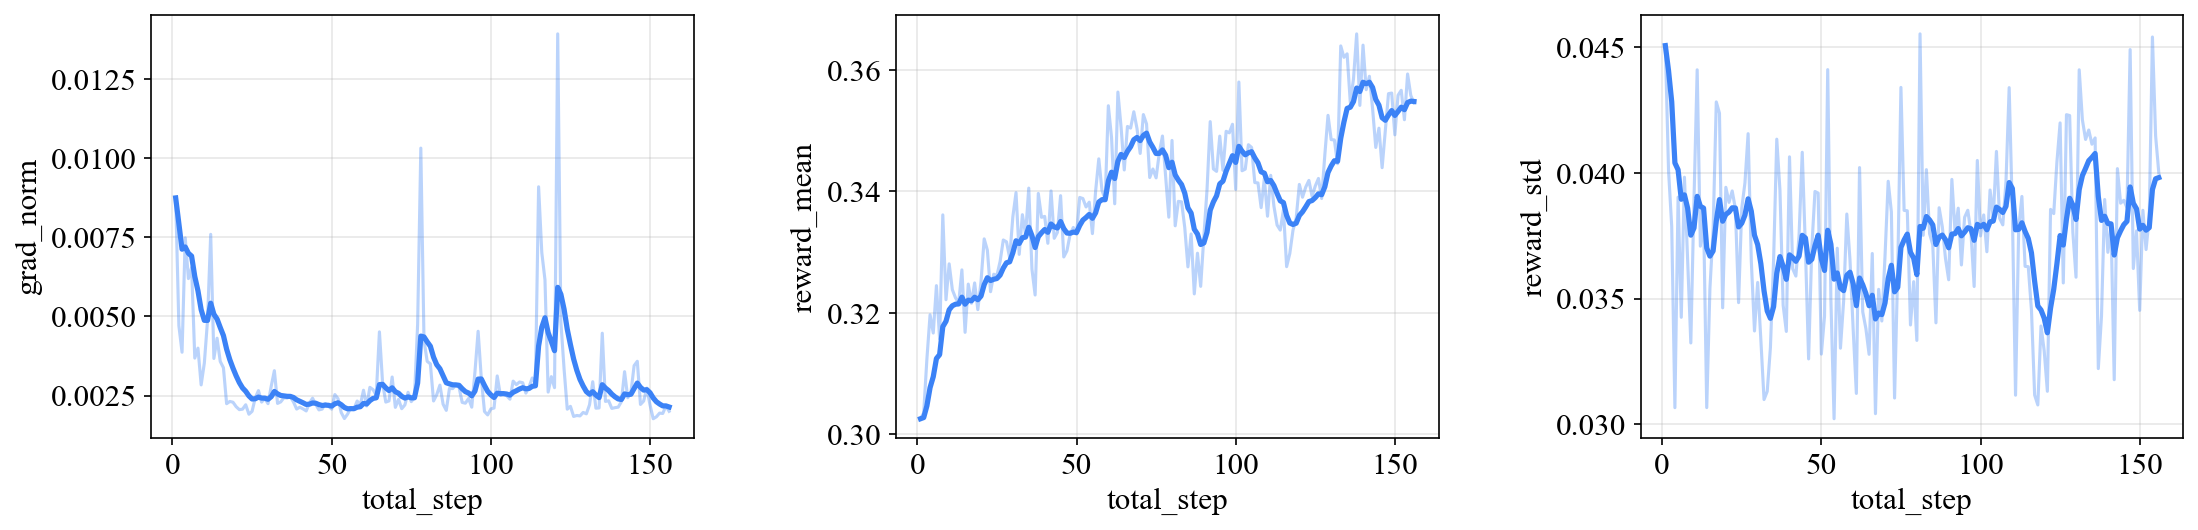
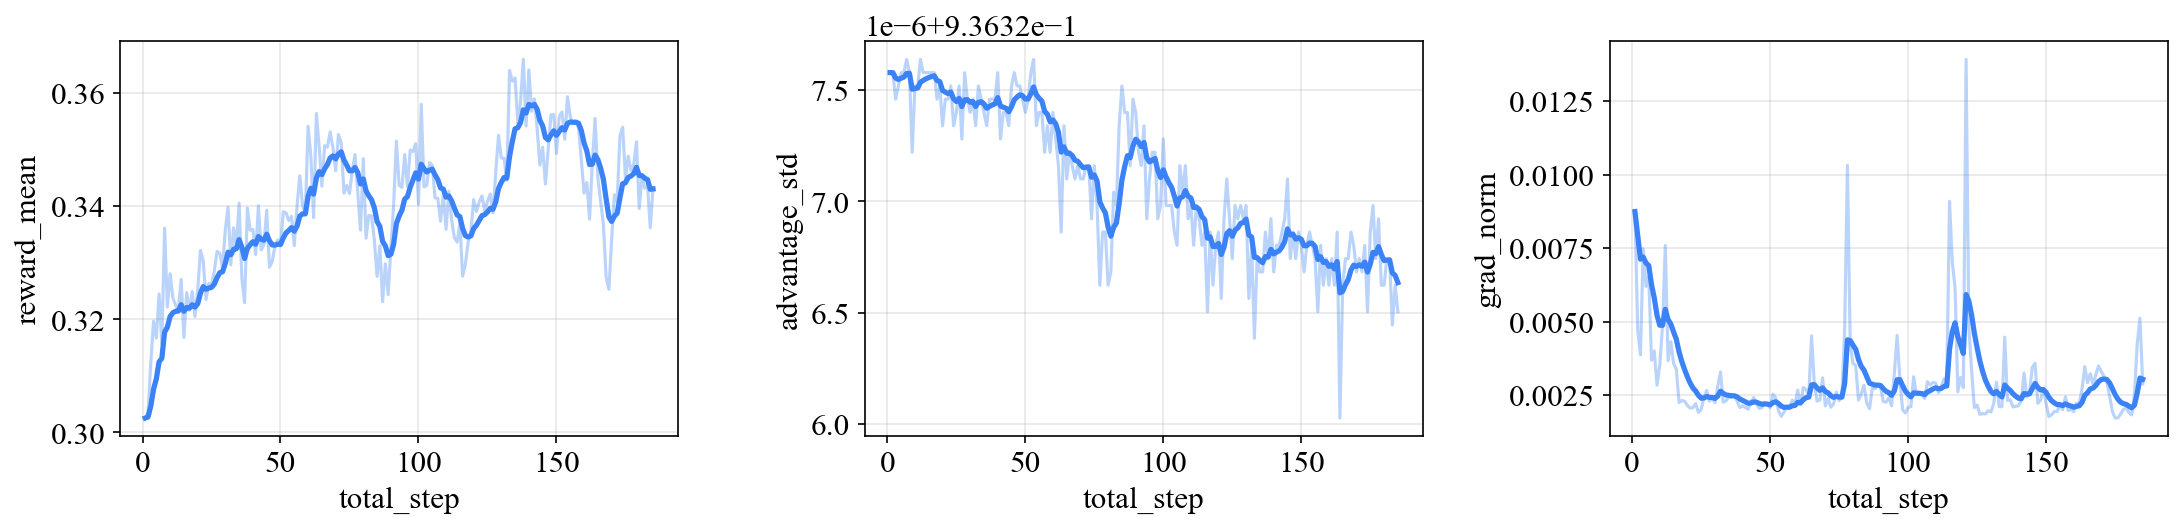
polish code of reward models

diff --git a/src/nexus_align/reward_models/reward_model_aesthetic_predictor_v2.py b/src/nexus_align/reward_models/reward_model_aesthetic_predictor_v2.py
@@ -12,7 +12,7 @@ class AestheticPredictorV2(BaseRewardModel):
  
     References:
         - Official repo: https://github.com/christophschuhmann/improved-aesthetic-predictor.
-        - Used repo: https://github.com/shunk031/simple-aesthetics-predictor
+        - Used repo: https://github.com/shunk031/simple-aesthetics-predictor.
         - Checkpoint: https://huggingface.co/shunk031/aesthetics-predictor-v2-sac-logos-ava1-l14-linearMSE.
     """
 
@@ -29,11 +29,12 @@ class AestheticPredictorV2(BaseRewardModel):
         """
         Load model.
 
-        Follow the repo: https://github.com/shunk031/simple-aesthetics-predictor
+        Follow the repo: https://github.com/shunk031/simple-aesthetics-predictor.
         """
         from transformers import CLIPProcessor
         from aesthetics_predictor import AestheticsPredictorV2Linear
 
+        # Load components
         print(f"⏳ Loading {self.model_name} processor from <{self.model_path}>")
         processor = CLIPProcessor.from_pretrained(self.model_path)
         print(f"⏳ Loading {self.model_name} model from <{self.model_path}>")
@@ -54,6 +55,7 @@ class AestheticPredictorV2(BaseRewardModel):
         else:
             model = model.to(device=self.device, dtype=self.model_dtype)
 
+        # Set model mode
         if self.mode == "train":
             model.train()
         elif self.mode == "eval":
@@ -74,7 +76,7 @@ class AestheticPredictorV2(BaseRewardModel):
         Args:
             data (`dict`):
                 image_pil (`list`): List of PIL.Image objects.
-            return_tensor (`bool`): Whether to return a tensor.
+            return_tensor (`bool`): If true, return a tensor; else return a list.
 
         Returns:
             `list` | `torch.Tensor`: Scores of the images.

diff --git a/src/nexus_align/reward_models/reward_model_qwen3_vl_8b.py b/src/nexus_align/reward_models/reward_model_qwen3_vl_8b.py
@@ -60,6 +60,7 @@ class Qwen3_VL_8B(BaseRewardModel):
         """
         from transformers import Qwen3VLForConditionalGeneration, AutoProcessor
 
+        # Load components
         print(f"⏳ Loading {self.model_name} processor from <{self.model_path}>")
         processor = AutoProcessor.from_pretrained(self.model_path)
         print(f"⏳ Loading {self.model_name} model from <{self.model_path}>")
@@ -69,6 +70,7 @@ class Qwen3_VL_8B(BaseRewardModel):
             device_map=f"cuda:{self.device.index}"
         )
 
+        # Set model mode
         if self.mode == "train":
             model.train()
         elif self.mode == "eval":
@@ -162,9 +164,19 @@ class Qwen3_VL_8B(BaseRewardModel):
                     f"⚠ Warning: JSON parsing error, the format of the model's output is incorrect:\n {e}"
                 )
                 print(f"Model's output: {res}")
-                overall_scores.append(None)
+                # Fallback: try regex extraction, otherwise mark as None for later imputation
+                match = re.search(r'"overall_score"\s*:\s*(\d+)', res)
+                if match:
+                    overall_scores.append(float(match.group(1)))
+                else:
+                    overall_scores.append(None)
 
         torch.use_deterministic_algorithms(deter_status)
+
+        # Impute missing scores with the batch average (or 50.0 if all failed)
+        valid_scores = [s for s in overall_scores if s is not None]
+        batch_avg = sum(valid_scores) / len(valid_scores) if valid_scores else 50.0
+        overall_scores = [s if s is not None else batch_avg for s in overall_scores]
 
         if return_tensor:
             return torch.tensor(overall_scores, device=self.device).contiguous()  

diff --git a/src/nexus_align/reward_models/reward_model_hps_v2.py b/src/nexus_align/reward_models/reward_model_hps_v2.py
@@ -13,6 +13,7 @@ class HPSv2(BaseRewardModel):
 
     References:
         - HPSv2 paper: https://arxiv.org/pdf/2306.09341.
+        - Official repo: https://github.com/tgxs002/HPSv2.
         - Checkpoint: https://huggingface.co/xswu/HPSv2.
     """
 
@@ -32,10 +33,11 @@ class HPSv2(BaseRewardModel):
         """
         Load model.
 
-        Follow the repo: https://github.com/tgxs002/HPSv2/blob/master/hpsv2/evaluation.py#L259
+        Follow the repo: https://github.com/tgxs002/HPSv2/blob/master/hpsv2/evaluation.py#L259.
         """
         from hpsv2.src.open_clip import create_model_and_transforms, get_tokenizer
 
+        # Load components
         hpsv2_path = os.path.join(self.model_path, "HPS_v2.1_compressed.pt")
         print(f"⏳ Loading {self.model_name} model from <{hpsv2_path}>")
         model, _, preprocess_val = create_model_and_transforms(
@@ -61,6 +63,7 @@ class HPSv2(BaseRewardModel):
         else:
             model = model.to(device=self.device, dtype=self.model_dtype)
 
+        # Set model mode
         if self.mode == "train":
             model.train()
         elif self.mode == "eval":
@@ -90,7 +93,7 @@ class HPSv2(BaseRewardModel):
                 image_feature (`Tensor`): Preprocessed images of shape [B, 3, 224, 224].
                 or text (`list`): List of text strings.
                 or image_pil (`list`): List of PIL.Image objects.
-            return_tensor (`bool`): Whether to return a tensor.
+            return_tensor (`bool`): If true, return a tensor; else return a list.
 
         Returns:
             `list` | `torch.Tensor`: Scores between each pair of images and texts.

diff --git a/src/nexus_align/reward_models/reward_model_aesthetic_predictor_v1.py b/src/nexus_align/reward_models/reward_model_aesthetic_predictor_v1.py
@@ -34,6 +34,7 @@ class AestheticPredictorV1(BaseRewardModel):
         from transformers import CLIPProcessor
         from aesthetics_predictor import AestheticsPredictorV1
         
+        # Load components
         print(f"⏳ Loading {self.model_name} processor from <{self.model_path}>")
         processor = CLIPProcessor.from_pretrained(self.model_path)
         print(f"⏳ Loading {self.model_name} model from <{self.model_path}>")
@@ -49,11 +50,12 @@ class AestheticPredictorV1(BaseRewardModel):
                 param_dtype=self.model_dtype,
                 strategy=self.fsdp_kwargs["strategy"],
                 cpu_offload=self.fsdp_kwargs["cpu_offload"],
-                model_name=self.model_name,
+                model_name=self.model_name
             )
         else:
             model = model.to(device=self.device, dtype=self.model_dtype)
 
+        # Set model mode
         if self.mode == "train":
             model.train()
         elif self.mode == "eval":
@@ -74,7 +76,7 @@ class AestheticPredictorV1(BaseRewardModel):
         Args:
             data (`dict`):
                 image_pil (`list`): List of PIL.Image objects.
-            return_tensor (`bool`): Whether to return a tensor.
+            return_tensor (`bool`): If true, return a tensor; else return a list.
 
         Returns:
             `list` | `torch.Tensor`: Scores of the images.

diff --git a/src/nexus_align/reward_models/reward_model_clip_score.py b/src/nexus_align/reward_models/reward_model_clip_score.py
@@ -12,6 +12,7 @@ class CLIPScore(BaseRewardModel):
 
     References:
         - CLIPScore paper: https://arxiv.org/pdf/2104.08718.
+        - Official repo: https://github.com/openai/CLIP.
         - Checkpoint: https://huggingface.co/openai/clip-vit-large-patch14.
     """
 
@@ -32,6 +33,7 @@ class CLIPScore(BaseRewardModel):
         """
         from transformers import CLIPModel, CLIPProcessor
 
+        # Load components
         print(f"⏳ Loading {self.model_name} model from <{self.model_path}>")
         model = CLIPModel.from_pretrained(self.model_path)
 
@@ -50,6 +52,7 @@ class CLIPScore(BaseRewardModel):
         else:
             model = model.to(device=self.device, dtype=self.model_dtype)
 
+        # Set model mode
         if self.mode == "train":
             model.train()
         elif self.mode == "eval":
@@ -73,7 +76,7 @@ class CLIPScore(BaseRewardModel):
             data (`dict`):
                 image_pil (`list`): List of PIL.Image objects.
                 text (`list`): List of text strings.
-            return_tensor (`bool`): Whether to return a tensor.
+            return_tensor (`bool`): If true, return a tensor; else return a list.
 
         Another implementation yields similar results but does not support batch inference:
             from torchmetrics.multimodal import CLIPScore

diff --git a/src/nexus_align/reward_models/reward_model_pick_score.py b/src/nexus_align/reward_models/reward_model_pick_score.py
@@ -38,6 +38,7 @@ class PickScore(BaseRewardModel):
         """
         from transformers import AutoProcessor, AutoModel
 
+        # Load components
         print(f"⏳ Loading {self.model_name} processor from <{self.processor_path}>")
         processor = AutoProcessor.from_pretrained(self.processor_path)
         print(f"⏳ Loading {self.model_name} model from <{self.model_path}>")
@@ -47,9 +48,9 @@ class PickScore(BaseRewardModel):
         if self.fsdp_kwargs["strategy"] is not None:
             # TODO: some errors when wrapping PickScore, will be fixed later
             print("❌ Wrap PickScore with FSDP is not supported! Disable FSDP...")
-
         model = model.to(device=self.device, dtype=self.model_dtype)
 
+        # Set model mode
         if self.mode == "train":
             model.train()
         elif self.mode == "eval":
@@ -69,7 +70,7 @@ class PickScore(BaseRewardModel):
             data (`dict`):
                 image_pil (`list`): List of PIL.Image objects.
                 text (`list`): List of text strings.
-            return_tensor (`bool`): Whether to return a tensor.
+            return_tensor (`bool`): If true, return a tensor; else return a list.
 
         Returns:
             `list` | `torch.Tensor`: Scores between each pair of images and texts.

diff --git a/src/nexus_align/reward_models/reward_model_qwen3_vl_32b.py b/src/nexus_align/reward_models/reward_model_qwen3_vl_32b.py
@@ -161,9 +161,19 @@ class Qwen3_VL_32B(BaseRewardModel):
                     f"⚠ Warning: JSON parsing error, the format of the model's output is incorrect:\n {e}"
                 )
                 print(f"Model's output: {res}")
-                overall_scores.append(None)
+                # Fallback: try regex extraction, otherwise mark as None for later imputation
+                match = re.search(r'"overall_score"\s*:\s*(\d+)', res)
+                if match:
+                    overall_scores.append(float(match.group(1)))
+                else:
+                    overall_scores.append(None)
 
         torch.use_deterministic_algorithms(deter_status)
+
+        # Impute missing scores with the batch average (or 50.0 if all failed)
+        valid_scores = [s for s in overall_scores if s is not None]
+        batch_avg = sum(valid_scores) / len(valid_scores) if valid_scores else 50.0
+        overall_scores = [s if s is not None else batch_avg for s in overall_scores]
 
         if return_tensor:
             return torch.tensor(overall_scores, device=self.device).contiguous()

diff --git a/src/nexus_align/reward_models/reward_model_qwen3_5_27b.py b/src/nexus_align/reward_models/reward_model_qwen3_5_27b.py
@@ -159,9 +159,19 @@ class Qwen3_5_27B(BaseRewardModel):
                     f"⚠ Warning: JSON parsing error, the format of the model's output is incorrect:\n {e}"
                 )
                 print(f"Model's output: {res}")
-                overall_scores.append(0.0)
+                # Fallback: try regex extraction, otherwise mark as None for later imputation
+                match = re.search(r'"overall_score"\s*:\s*(\d+)', res)
+                if match:
+                    overall_scores.append(float(match.group(1)))
+                else:
+                    overall_scores.append(None)
 
         torch.use_deterministic_algorithms(deter_status)
+
+        # Impute missing scores with the batch average (or 50.0 if all failed)
+        valid_scores = [s for s in overall_scores if s is not None]
+        batch_avg = sum(valid_scores) / len(valid_scores) if valid_scores else 50.0
+        overall_scores = [s if s is not None else batch_avg for s in overall_scores]
 
         if return_tensor:
             return torch.tensor(overall_scores, device=self.device).contiguous()

diff --git a/src/nexus_align/reward_models/reward_model_intern3_5_vl_8b.py b/src/nexus_align/reward_models/reward_model_intern3_5_vl_8b.py
@@ -158,7 +158,17 @@ class Intern3_5_VL_8B(BaseRewardModel):
                     f"⚠ Warning: JSON parsing error, the format of the model's output is incorrect:\n {e}"
                 )
                 print(f"Model's output: {res}")
-                overall_scores.append(None)
+                # Fallback: try regex extraction, otherwise mark as None for later imputation
+                match = re.search(r'"overall_score"\s*:\s*(\d+)', res)
+                if match:
+                    overall_scores.append(float(match.group(1)))
+                else:
+                    overall_scores.append(None)
+
+        # Impute missing scores with the batch average (or 50.0 if all failed)
+        valid_scores = [s for s in overall_scores if s is not None]
+        batch_avg = sum(valid_scores) / len(valid_scores) if valid_scores else 50.0
+        overall_scores = [s if s is not None else batch_avg for s in overall_scores]
 
         if return_tensor:
             return torch.tensor(overall_scores, device=self.device).contiguous()  

diff --git a/src/nexus_align/reward_models/reward_model_glm_4_6v_flash.py b/src/nexus_align/reward_models/reward_model_glm_4_6v_flash.py
@@ -164,7 +164,17 @@ class GLM_4_6V_Flash(BaseRewardModel):
                     f"⚠ Warning: JSON parsing error, the format of the model's output is incorrect:\n {e}"
                 )
                 print(f"Model's output: {res}")
-                overall_scores.append(None)
+                # Fallback: try regex extraction, otherwise mark as None for later imputation
+                match = re.search(r'"overall_score"\s*:\s*(\d+)', res)
+                if match:
+                    overall_scores.append(float(match.group(1)))
+                else:
+                    overall_scores.append(None)
+
+        # Impute missing scores with the batch average (or 50.0 if all failed)
+        valid_scores = [s for s in overall_scores if s is not None]
+        batch_avg = sum(valid_scores) / len(valid_scores) if valid_scores else 50.0
+        overall_scores = [s if s is not None else batch_avg for s in overall_scores]
 
         if return_tensor:
             return torch.tensor(overall_scores, device=self.device).contiguous()

diff --git a/src/nexus_align/reward_models/reward_model_hps_v3.py b/src/nexus_align/reward_models/reward_model_hps_v3.py
@@ -44,6 +44,7 @@ class HPSv3(BaseRewardModel):
             Qwen2MLP,
         )
 
+        # Load components
         model_path = os.path.join(self.model_path, "HPSv3.safetensors")
         print(f"⏳ Loading {self.model_name} model from <{model_path}>")
         model = HPSv3RewardInferencer(checkpoint_path=model_path, device=self.device)
@@ -67,6 +68,7 @@ class HPSv3(BaseRewardModel):
         else:
             model = model.to(device=self.device, dtype=self.model_dtype)
 
+        # Set model mode
         if self.mode == "train":
             model.train()
         elif self.mode == "eval":
@@ -88,7 +90,7 @@ class HPSv3(BaseRewardModel):
             data (`dict`):
                 image (`list`): List of paths to images.
                 text (`list`): List of text strings.
-            return_tensor (`bool`): Whether to return a tensor.
+            return_tensor (`bool`): If true, return a tensor; else return a list.
     
         Returns:
             `list` | `torch.Tensor`: Scores between each pair of images and texts.

diff --git a/src/nexus_align/reward_models/reward_model_image_reward.py b/src/nexus_align/reward_models/reward_model_image_reward.py
@@ -34,6 +34,7 @@ class ImageReward(BaseRewardModel):
         """
         import ImageReward as reward
 
+        # Load components
         model_path = os.path.join(self.model_path, "ImageReward.pt")
         print(f"⏳ Loading {self.model_name} model from <{model_path}>")
         model = reward.load(model_path)
@@ -51,6 +52,7 @@ class ImageReward(BaseRewardModel):
         else:
             model = model.to(device=self.device, dtype=self.model_dtype)
 
+        # Set model mode
         if self.mode == "train":
             model.train()
         elif self.mode == "eval":
@@ -72,7 +74,7 @@ class ImageReward(BaseRewardModel):
             data (`dict`):
                 image (`list`): List of paths to images.
                 text (`list`): List of text strings.
-            return_tensor (`bool`): Whether to return a tensor.
+            return_tensor (`bool`): If true, return a tensor; else return a list.
         """
         images = data["image"]
         prompts = data["text"]
